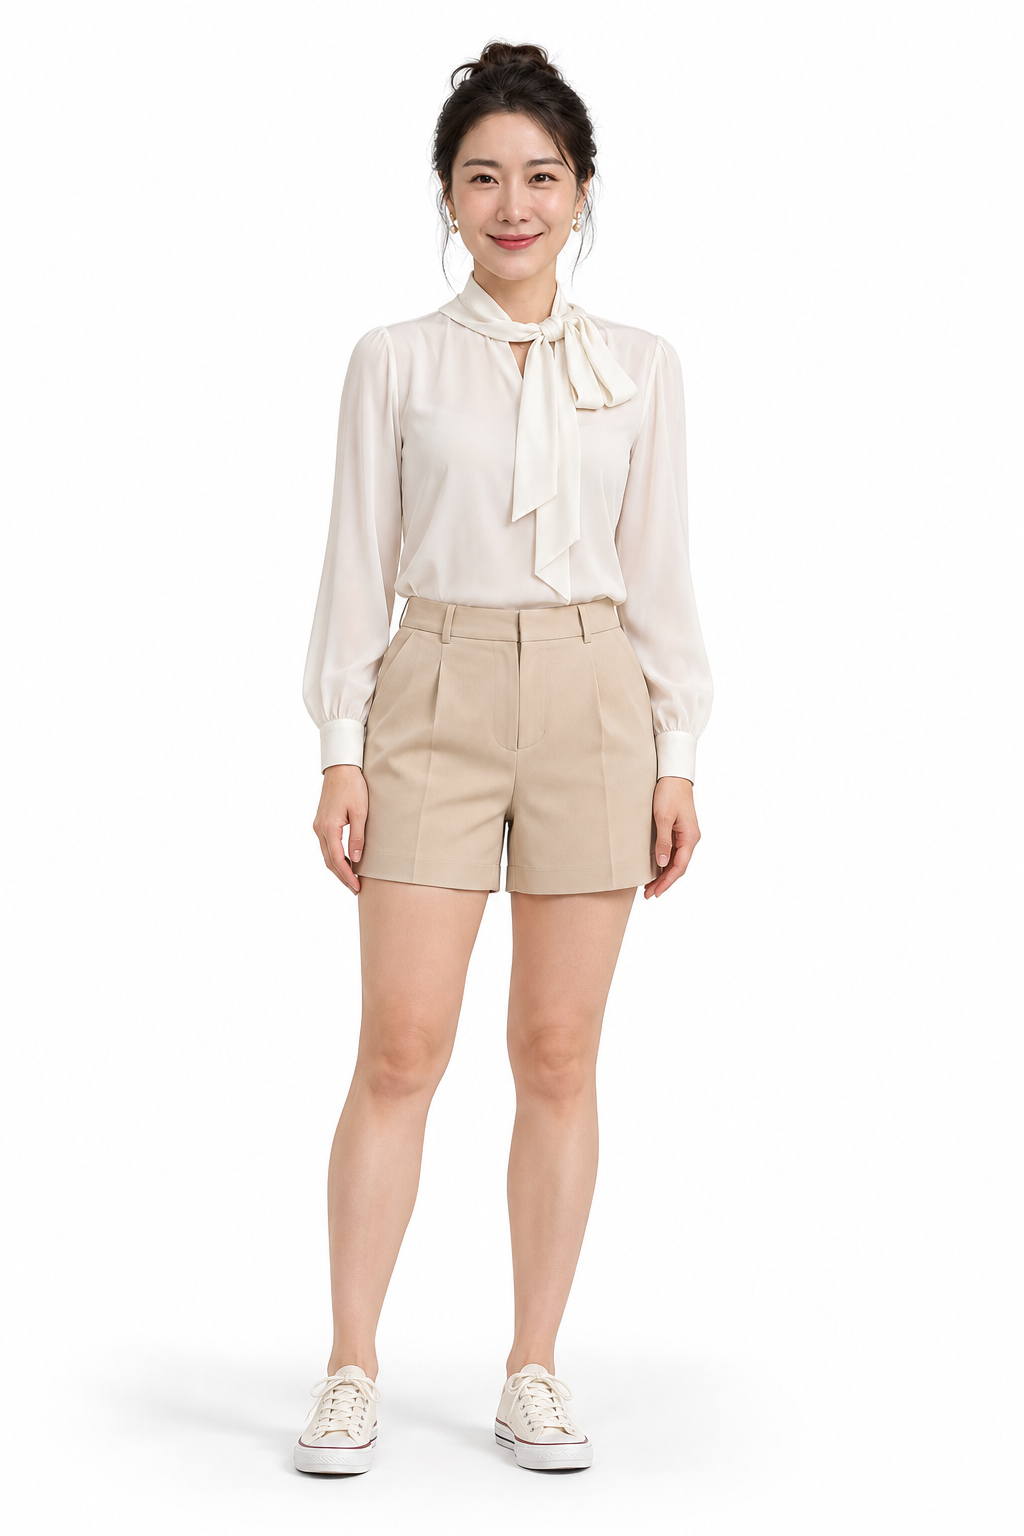
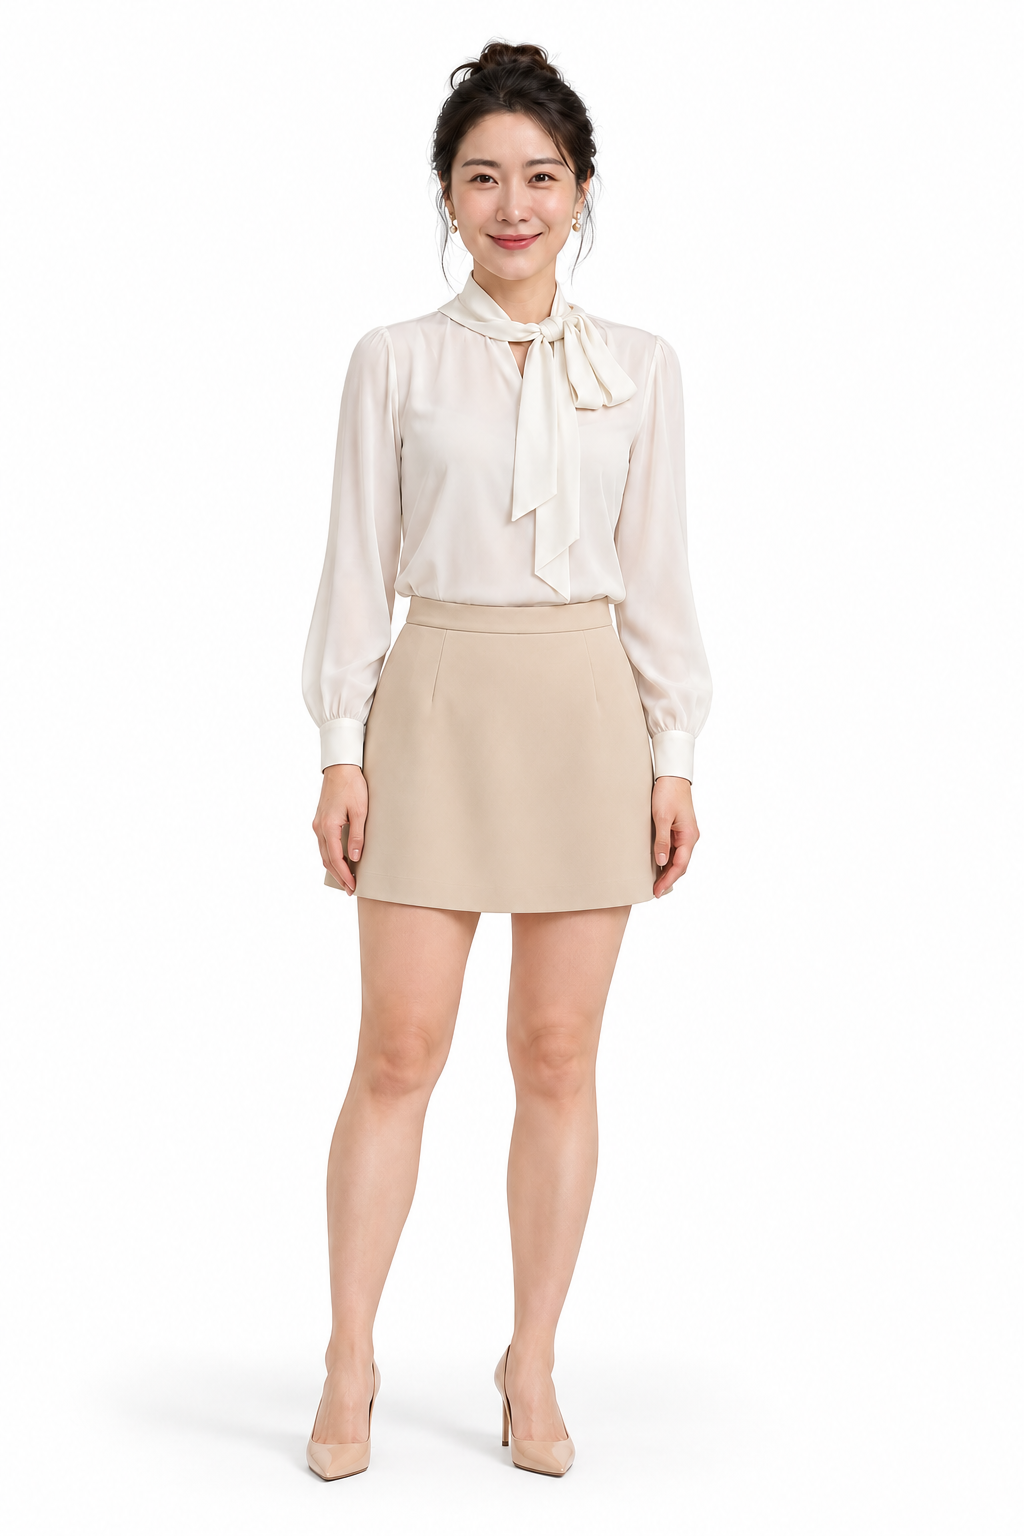
Change 40 to skirt and heels and refine facial blend for 56

diff --git a/assets/fullbody/README.md b/assets/fullbody/README.md
@@ -4,9 +4,9 @@
 
 ## 配置
 
-- 裙裝／連身裙裝：46 人（71.9%）；褲裝：18 人（28.1%），已依後續指定更新。
-- 裙裝中膝上：40 人（87.0%）；其餘 6 人為及膝以下。
-- 有跟鞋：50 人（78.1%）；帆布鞋／運動鞋：6 人（06、08、13、24、27、40）；其他平底鞋：8 人（02、04、05、09、22、23、39、42），依後續指定更新。
+- 裙裝／連身裙裝：47 人（73.4%）；褲裝：17 人（26.6%），依後續指定更新。
+- 裙裝中膝上：41 人（87.2%）；其餘 6 人為及膝以下。
+- 有跟鞋：51 人（79.7%）；帆布鞋／運動鞋：5 人（06、08、13、24、27）；其他平底鞋：8 人（02、04、05、09、22、23、39、42）。
 - 01～32 中短版露腰上衣：10 人（31.25%），編號 01、03、04、05、07、09、11、15、22、30。
 
 各圖為 AI 延伸創作，保留參考人物特徵，但並非真實人物攝影，也不保證臉部像素完全相同。服裝及對應資料見 [manifest.json](manifest.json)。
@@ -54,7 +54,7 @@
 | avatar-37 | ![頭像](../avatars/avatar-37.webp) | [查看全身照](avatar-37.png) | 裙裝・膝上 | 有跟鞋 |
 | avatar-38 | ![頭像](../avatars/avatar-38.webp) | [查看全身照](avatar-38.png) | 裙裝・膝上 | 有跟鞋 |
 | avatar-39 | ![頭像](../avatars/avatar-39.webp) | [查看全身照](avatar-39.png) | 連身裙裝・膝上 | 平底鞋 |
-| avatar-40 | ![頭像](../avatars/avatar-40.webp) | [查看全身照](avatar-40.png) | 褲裝 | 帆布鞋 |
+| avatar-40 | ![頭像](../avatars/avatar-40.webp) | [查看全身照](avatar-40.png) | 裙裝・膝上 | 有跟鞋 |
 | avatar-41 | ![頭像](../avatars/avatar-41.webp) | [查看全身照](avatar-41.png) | 裙裝・膝上 | 有跟鞋 |
 | avatar-42 | ![頭像](../avatars/avatar-42.webp) | [查看全身照](avatar-42.png) | 連身裙裝・膝上 | 平底鞋 |
 | avatar-43 | ![頭像](../avatars/avatar-43.webp) | [查看全身照](avatar-43.png) | 裙裝・及膝以下 | 有跟鞋 |
@@ -122,3 +122,5 @@
 04、38、56 的全身照臉部改為直接擷取對應原頭像素材，依雙眼位置對齊，並以接縫光影融合合成，未使用生成工具重新繪製五官。56 的露出腿部區段縮短約 12%（55px），保留上半身與鞋型。原頭像未修改。
 
 04 臉部已移除前次梯度融合造成的大片陰影，改為原頭像素材的均勻色調校正與柔邊貼合。
+
+40 改為米色膝上裙與跟鞋。56 臉部改用均勻色調校正與較窄柔邊貼合，改善合成邊緣，維持原頭像五官及縮短後腿部比例。
